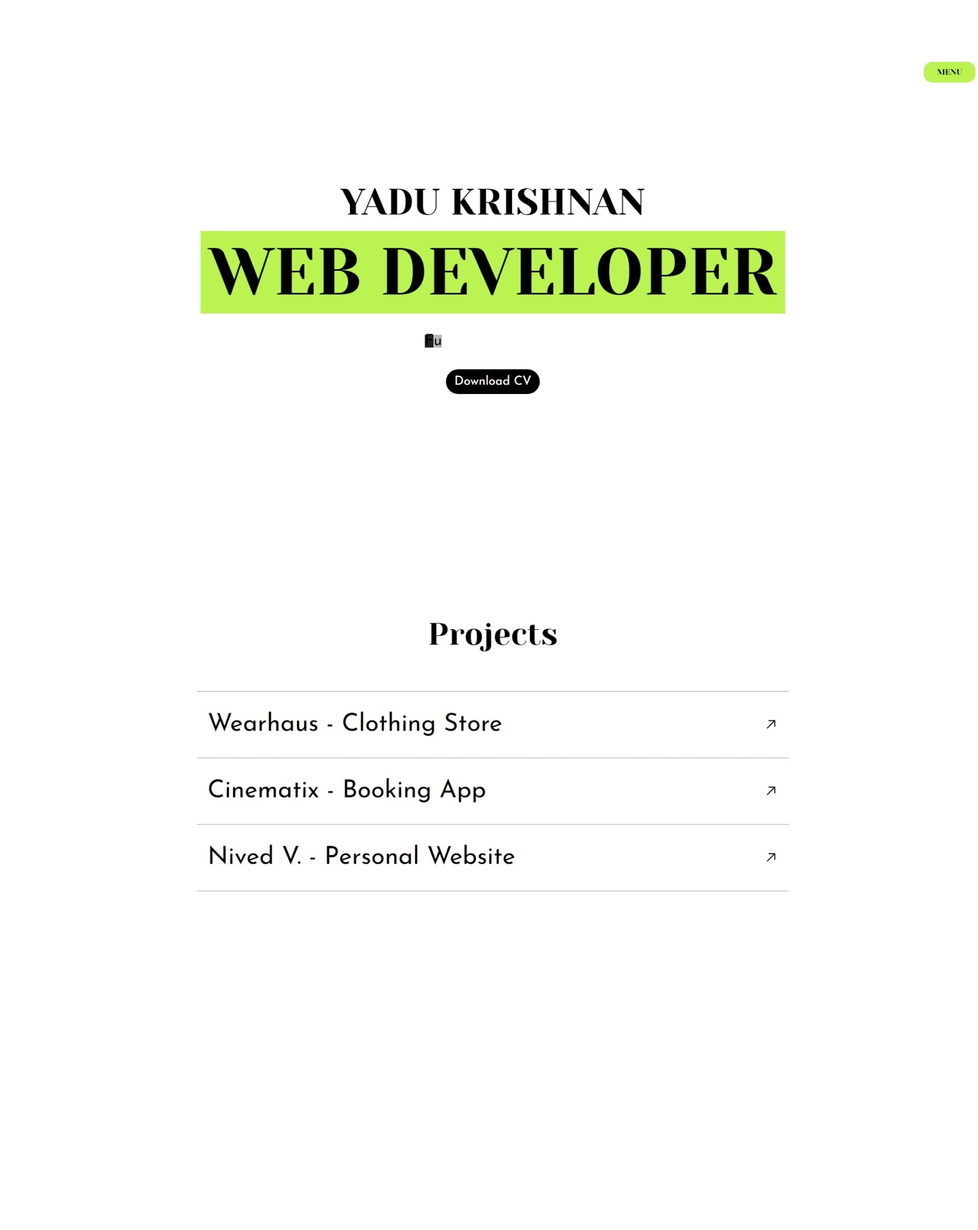
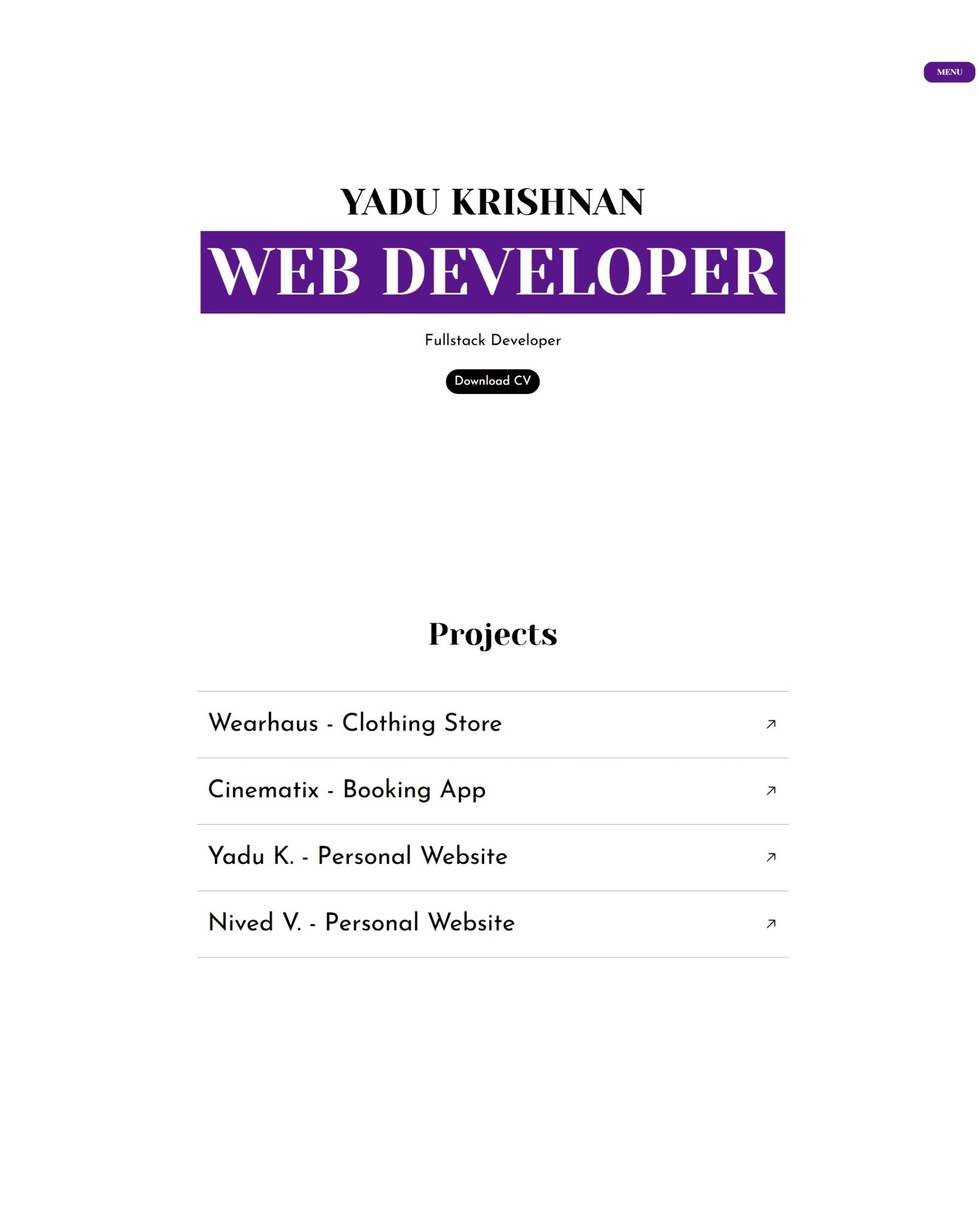
Updates

diff --git a/assets/index-BpxAs_XT.css b/assets/index-BpxAs_XT.css
@@ -1,0 +1,1 @@
+/*! tailwindcss v4.0.2 | MIT License | https://tailwindcss.com */@layer theme{:root,:host{--font-sans:ui-sans-serif,system-ui,sans-serif,"Apple Color Emoji","Segoe UI Emoji","Segoe UI Symbol","Noto Color Emoji";--font-serif:ui-serif,Georgia,Cambria,"Times New Roman",Times,serif;--font-mono:ui-monospace,SFMono-Regular,Menlo,Monaco,Consolas,"Liberation Mono","Courier New",monospace;--color-red-50:oklch(.971 .013 17.38);--color-red-100:oklch(.936 .032 17.717);--color-red-200:oklch(.885 .062 18.334);--color-red-300:oklch(.808 .114 19.571);--color-red-400:oklch(.704 .191 22.216);--color-red-500:oklch(.637 .237 25.331);--color-red-600:oklch(.577 .245 27.325);--color-red-700:oklch(.505 .213 27.518);--color-red-800:oklch(.444 .177 26.899);--color-red-900:oklch(.396 .141 25.723);--color-red-950:oklch(.258 .092 26.042);--color-orange-50:oklch(.98 .016 73.684);--color-orange-100:oklch(.954 .038 75.164);--color-orange-200:oklch(.901 .076 70.697);--color-orange-300:oklch(.837 .128 66.29);--color-orange-400:oklch(.75 .183 55.934);--color-orange-500:oklch(.705 .213 47.604);--color-orange-600:oklch(.646 .222 41.116);--color-orange-700:oklch(.553 .195 38.402);--color-orange-800:oklch(.47 .157 37.304);--color-orange-900:oklch(.408 .123 38.172);--color-orange-950:oklch(.266 .079 36.259);--color-amber-50:oklch(.987 .022 95.277);--color-amber-100:oklch(.962 .059 95.617);--color-amber-200:oklch(.924 .12 95.746);--color-amber-300:oklch(.879 .169 91.605);--color-amber-400:oklch(.828 .189 84.429);--color-amber-500:oklch(.769 .188 70.08);--color-amber-600:oklch(.666 .179 58.318);--color-amber-700:oklch(.555 .163 48.998);--color-amber-800:oklch(.473 .137 46.201);--color-amber-900:oklch(.414 .112 45.904);--color-amber-950:oklch(.279 .077 45.635);--color-yellow-50:oklch(.987 .026 102.212);--color-yellow-100:oklch(.973 .071 103.193);--color-yellow-200:oklch(.945 .129 101.54);--color-yellow-300:oklch(.905 .182 98.111);--color-yellow-400:oklch(.852 .199 91.936);--color-yellow-500:oklch(.795 .184 86.047);--color-yellow-600:oklch(.681 .162 75.834);--color-yellow-700:oklch(.554 .135 66.442);--color-yellow-800:oklch(.476 .114 61.907);--color-yellow-900:oklch(.421 .095 57.708);--color-yellow-950:oklch(.286 .066 53.813);--color-lime-50:oklch(.986 .031 120.757);--color-lime-100:oklch(.967 .067 122.328);--color-lime-200:oklch(.938 .127 124.321);--color-lime-300:oklch(.897 .196 126.665);--color-lime-400:oklch(.841 .238 128.85);--color-lime-500:oklch(.768 .233 130.85);--color-lime-600:oklch(.648 .2 131.684);--color-lime-700:oklch(.532 .157 131.589);--color-lime-800:oklch(.453 .124 130.933);--color-lime-900:oklch(.405 .101 131.063);--color-lime-950:oklch(.274 .072 132.109);--color-green-50:oklch(.982 .018 155.826);--color-green-100:oklch(.962 .044 156.743);--color-green-200:oklch(.925 .084 155.995);--color-green-300:oklch(.871 .15 154.449);--color-green-400:oklch(.792 .209 151.711);--color-green-500:oklch(.723 .219 149.579);--color-green-600:oklch(.627 .194 149.214);--color-green-700:oklch(.527 .154 150.069);--color-green-800:oklch(.448 .119 151.328);--color-green-900:oklch(.393 .095 152.535);--color-green-950:oklch(.266 .065 152.934);--color-emerald-50:oklch(.979 .021 166.113);--color-emerald-100:oklch(.95 .052 163.051);--color-emerald-200:oklch(.905 .093 164.15);--color-emerald-300:oklch(.845 .143 164.978);--color-emerald-400:oklch(.765 .177 163.223);--color-emerald-500:oklch(.696 .17 162.48);--color-emerald-600:oklch(.596 .145 163.225);--color-emerald-700:oklch(.508 .118 165.612);--color-emerald-800:oklch(.432 .095 166.913);--color-emerald-900:oklch(.378 .077 168.94);--color-emerald-950:oklch(.262 .051 172.552);--color-teal-50:oklch(.984 .014 180.72);--color-teal-100:oklch(.953 .051 180.801);--color-teal-200:oklch(.91 .096 180.426);--color-teal-300:oklch(.855 .138 181.071);--color-teal-400:oklch(.777 .152 181.912);--color-teal-500:oklch(.704 .14 182.503);--color-teal-600:oklch(.6 .118 184.704);--color-teal-700:oklch(.511 .096 186.391);--color-teal-800:oklch(.437 .078 188.216);--color-teal-900:oklch(.386 .063 188.416);--color-teal-950:oklch(.277 .046 192.524);--color-cyan-50:oklch(.984 .019 200.873);--color-cyan-100:oklch(.956 .045 203.388);--color-cyan-200:oklch(.917 .08 205.041);--color-cyan-300:oklch(.865 .127 207.078);--color-cyan-400:oklch(.789 .154 211.53);--color-cyan-500:oklch(.715 .143 215.221);--color-cyan-600:oklch(.609 .126 221.723);--color-cyan-700:oklch(.52 .105 223.128);--color-cyan-800:oklch(.45 .085 224.283);--color-cyan-900:oklch(.398 .07 227.392);--color-cyan-950:oklch(.302 .056 229.695);--color-sky-50:oklch(.977 .013 236.62);--color-sky-100:oklch(.951 .026 236.824);--color-sky-200:oklch(.901 .058 230.902);--color-sky-300:oklch(.828 .111 230.318);--color-sky-400:oklch(.746 .16 232.661);--color-sky-500:oklch(.685 .169 237.323);--color-sky-600:oklch(.588 .158 241.966);--color-sky-700:oklch(.5 .134 242.749);--color-sky-800:oklch(.443 .11 240.79);--color-sky-900:oklch(.391 .09 240.876);--color-sky-950:oklch(.293 .066 243.157);--color-blue-50:oklch(.97 .014 254.604);--color-blue-100:oklch(.932 .032 255.585);--color-blue-200:oklch(.882 .059 254.128);--color-blue-300:oklch(.809 .105 251.813);--color-blue-400:oklch(.707 .165 254.624);--color-blue-500:oklch(.623 .214 259.815);--color-blue-600:oklch(.546 .245 262.881);--color-blue-700:oklch(.488 .243 264.376);--color-blue-800:oklch(.424 .199 265.638);--color-blue-900:oklch(.379 .146 265.522);--color-blue-950:oklch(.282 .091 267.935);--color-indigo-50:oklch(.962 .018 272.314);--color-indigo-100:oklch(.93 .034 272.788);--color-indigo-200:oklch(.87 .065 274.039);--color-indigo-300:oklch(.785 .115 274.713);--color-indigo-400:oklch(.673 .182 276.935);--color-indigo-500:oklch(.585 .233 277.117);--color-indigo-600:oklch(.511 .262 276.966);--color-indigo-700:oklch(.457 .24 277.023);--color-indigo-800:oklch(.398 .195 277.366);--color-indigo-900:oklch(.359 .144 278.697);--color-indigo-950:oklch(.257 .09 281.288);--color-violet-50:oklch(.969 .016 293.756);--color-violet-100:oklch(.943 .029 294.588);--color-violet-200:oklch(.894 .057 293.283);--color-violet-300:oklch(.811 .111 293.571);--color-violet-400:oklch(.702 .183 293.541);--color-violet-500:oklch(.606 .25 292.717);--color-violet-600:oklch(.541 .281 293.009);--color-violet-700:oklch(.491 .27 292.581);--color-violet-800:oklch(.432 .232 292.759);--color-violet-900:oklch(.38 .189 293.745);--color-violet-950:oklch(.283 .141 291.089);--color-purple-50:oklch(.977 .014 308.299);--color-purple-100:oklch(.946 .033 307.174);--color-purple-200:oklch(.902 .063 306.703);--color-purple-300:oklch(.827 .119 306.383);--color-purple-400:oklch(.714 .203 305.504);--color-purple-500:oklch(.627 .265 303.9);--color-purple-600:oklch(.558 .288 302.321);--color-purple-700:oklch(.496 .265 301.924);--color-purple-800:oklch(.438 .218 303.724);--color-purple-900:oklch(.381 .176 304.987);--color-purple-950:oklch(.291 .149 302.717);--color-fuchsia-50:oklch(.977 .017 320.058);--color-fuchsia-100:oklch(.952 .037 318.852);--color-fuchsia-200:oklch(.903 .076 319.62);--color-fuchsia-300:oklch(.833 .145 321.434);--color-fuchsia-400:oklch(.74 .238 322.16);--color-fuchsia-500:oklch(.667 .295 322.15);--color-fuchsia-600:oklch(.591 .293 322.896);--color-fuchsia-700:oklch(.518 .253 323.949);--color-fuchsia-800:oklch(.452 .211 324.591);--color-fuchsia-900:oklch(.401 .17 325.612);--color-fuchsia-950:oklch(.293 .136 325.661);--color-pink-50:oklch(.971 .014 343.198);--color-pink-100:oklch(.948 .028 342.258);--color-pink-200:oklch(.899 .061 343.231);--color-pink-300:oklch(.823 .12 346.018);--color-pink-400:oklch(.718 .202 349.761);--color-pink-500:oklch(.656 .241 354.308);--color-pink-600:oklch(.592 .249 .584);--color-pink-700:oklch(.525 .223 3.958);--color-pink-800:oklch(.459 .187 3.815);--color-pink-900:oklch(.408 .153 2.432);--color-pink-950:oklch(.284 .109 3.907);--color-rose-50:oklch(.969 .015 12.422);--color-rose-100:oklch(.941 .03 12.58);--color-rose-200:oklch(.892 .058 10.001);--color-rose-300:oklch(.81 .117 11.638);--color-rose-400:oklch(.712 .194 13.428);--color-rose-500:oklch(.645 .246 16.439);--color-rose-600:oklch(.586 .253 17.585);--color-rose-700:oklch(.514 .222 16.935);--color-rose-800:oklch(.455 .188 13.697);--color-rose-900:oklch(.41 .159 10.272);--color-rose-950:oklch(.271 .105 12.094);--color-slate-50:oklch(.984 .003 247.858);--color-slate-100:oklch(.968 .007 247.896);--color-slate-200:oklch(.929 .013 255.508);--color-slate-300:oklch(.869 .022 252.894);--color-slate-400:oklch(.704 .04 256.788);--color-slate-500:oklch(.554 .046 257.417);--color-slate-600:oklch(.446 .043 257.281);--color-slate-700:oklch(.372 .044 257.287);--color-slate-800:oklch(.279 .041 260.031);--color-slate-900:oklch(.208 .042 265.755);--color-slate-950:oklch(.129 .042 264.695);--color-gray-50:oklch(.985 .002 247.839);--color-gray-100:oklch(.967 .003 264.542);--color-gray-200:oklch(.928 .006 264.531);--color-gray-300:oklch(.872 .01 258.338);--color-gray-400:oklch(.707 .022 261.325);--color-gray-500:oklch(.551 .027 264.364);--color-gray-600:oklch(.446 .03 256.802);--color-gray-700:oklch(.373 .034 259.733);--color-gray-800:oklch(.278 .033 256.848);--color-gray-900:oklch(.21 .034 264.665);--color-gray-950:oklch(.13 .028 261.692);--color-zinc-50:oklch(.985 0 0);--color-zinc-100:oklch(.967 .001 286.375);--color-zinc-200:oklch(.92 .004 286.32);--color-zinc-300:oklch(.871 .006 286.286);--color-zinc-400:oklch(.705 .015 286.067);--color-zinc-500:oklch(.552 .016 285.938);--color-zinc-600:oklch(.442 .017 285.786);--color-zinc-700:oklch(.37 .013 285.805);--color-zinc-800:oklch(.274 .006 286.033);--color-zinc-900:oklch(.21 .006 285.885);--color-zinc-950:oklch(.141 .005 285.823);--color-neutral-50:oklch(.985 0 0);--color-neutral-100:oklch(.97 0 0);--color-neutral-200:oklch(.922 0 0);--color-neutral-300:oklch(.87 0 0);--color-neutral-400:oklch(.708 0 0);--color-neutral-500:oklch(.556 0 0);--color-neutral-600:oklch(.439 0 0);--color-neutral-700:oklch(.371 0 0);--color-neutral-800:oklch(.269 0 0);--color-neutral-900:oklch(.205 0 0);--color-neutral-950:oklch(.145 0 0);--color-stone-50:oklch(.985 .001 106.423);--color-stone-100:oklch(.97 .001 106.424);--color-stone-200:oklch(.923 .003 48.717);--color-stone-300:oklch(.869 .005 56.366);--color-stone-400:oklch(.709 .01 56.259);--color-stone-500:oklch(.553 .013 58.071);--color-stone-600:oklch(.444 .011 73.639);--color-stone-700:oklch(.374 .01 67.558);--color-stone-800:oklch(.268 .007 34.298);--color-stone-900:oklch(.216 .006 56.043);--color-stone-950:oklch(.147 .004 49.25);--color-black:#000;--color-white:#fff;--spacing:.25rem;--breakpoint-sm:40rem;--breakpoint-md:48rem;--breakpoint-lg:64rem;--breakpoint-xl:80rem;--breakpoint-2xl:96rem;--container-3xs:16rem;--container-2xs:18rem;--container-xs:20rem;--container-sm:24rem;--container-md:28rem;--container-lg:32rem;--container-xl:36rem;--container-2xl:42rem;--container-3xl:48rem;--container-4xl:56rem;--container-5xl:64rem;--container-6xl:72rem;--container-7xl:80rem;--text-xs:.75rem;--text-xs--line-height:calc(1/.75);--text-sm:.875rem;--text-sm--line-height:calc(1.25/.875);--text-base:1rem;--text-base--line-height: 1.5 ;--text-lg:1.125rem;--text-lg--line-height:calc(1.75/1.125);--text-xl:1.25rem;--text-xl--line-height:calc(1.75/1.25);--text-2xl:1.5rem;--text-2xl--line-height:calc(2/1.5);--text-3xl:1.875rem;--text-3xl--line-height: 1.2 ;--text-4xl:2.25rem;--text-4xl--line-height:calc(2.5/2.25);--text-5xl:3rem;--text-5xl--line-height:1;--text-6xl:3.75rem;--text-6xl--line-height:1;--text-7xl:4.5rem;--text-7xl--line-height:1;--text-8xl:6rem;--text-8xl--line-height:1;--text-9xl:8rem;--text-9xl--line-height:1;--font-weight-thin:100;--font-weight-extralight:200;--font-weight-light:300;--font-weight-normal:400;--font-weight-medium:500;--font-weight-semibold:600;--font-weight-bold:700;--font-weight-extrabold:800;--font-weight-black:900;--tracking-tighter:-.05em;--tracking-tight:-.025em;--tracking-normal:0em;--tracking-wide:.025em;--tracking-wider:.05em;--tracking-widest:.1em;--leading-tight:1.25;--leading-snug:1.375;--leading-normal:1.5;--leading-relaxed:1.625;--leading-loose:2;--radius-xs:.125rem;--radius-sm:.25rem;--radius-md:.375rem;--radius-lg:.5rem;--radius-xl:.75rem;--radius-2xl:1rem;--radius-3xl:1.5rem;--radius-4xl:2rem;--shadow-2xs:0 1px #0000000d;--shadow-xs:0 1px 2px 0 #0000000d;--shadow-sm:0 1px 3px 0 #0000001a,0 1px 2px -1px #0000001a;--shadow-md:0 4px 6px -1px #0000001a,0 2px 4px -2px #0000001a;--shadow-lg:0 10px 15px -3px #0000001a,0 4px 6px -4px #0000001a;--shadow-xl:0 20px 25px -5px #0000001a,0 8px 10px -6px #0000001a;--shadow-2xl:0 25px 50px -12px #00000040;--inset-shadow-2xs:inset 0 1px #0000000d;--inset-shadow-xs:inset 0 1px 1px #0000000d;--inset-shadow-sm:inset 0 2px 4px #0000000d;--drop-shadow-xs:0 1px 1px #0000000d;--drop-shadow-sm:0 1px 2px #00000026;--drop-shadow-md:0 3px 3px #0000001f;--drop-shadow-lg:0 4px 4px #00000026;--drop-shadow-xl:0 9px 7px #0000001a;--drop-shadow-2xl:0 25px 25px #00000026;--ease-in:cubic-bezier(.4,0,1,1);--ease-out:cubic-bezier(0,0,.2,1);--ease-in-out:cubic-bezier(.4,0,.2,1);--animate-spin:spin 1s linear infinite;--animate-ping:ping 1s cubic-bezier(0,0,.2,1)infinite;--animate-pulse:pulse 2s cubic-bezier(.4,0,.6,1)infinite;--animate-bounce:bounce 1s infinite;--blur-xs:4px;--blur-sm:8px;--blur-md:12px;--blur-lg:16px;--blur-xl:24px;--blur-2xl:40px;--blur-3xl:64px;--perspective-dramatic:100px;--perspective-near:300px;--perspective-normal:500px;--perspective-midrange:800px;--perspective-distant:1200px;--aspect-video:16/9;--default-transition-duration:.15s;--default-transition-timing-function:cubic-bezier(.4,0,.2,1);--default-font-family:var(--font-sans);--default-font-feature-settings:var(--font-sans--font-feature-settings);--default-font-variation-settings:var(--font-sans--font-variation-settings);--default-mono-font-family:var(--font-mono);--default-mono-font-feature-settings:var(--font-mono--font-feature-settings);--default-mono-font-variation-settings:var(--font-mono--font-variation-settings)}}@layer base{*,:after,:before,::backdrop{box-sizing:border-box;border:0 solid;margin:0;padding:0}::file-selector-button{box-sizing:border-box;border:0 solid;margin:0;padding:0}html,:host{-webkit-text-size-adjust:100%;-moz-tab-size:4;tab-size:4;line-height:1.5;font-family:var(--default-font-family,ui-sans-serif,system-ui,sans-serif,"Apple Color Emoji","Segoe UI Emoji","Segoe UI Symbol","Noto Color Emoji");font-feature-settings:var(--default-font-feature-settings,normal);font-variation-settings:var(--default-font-variation-settings,normal);-webkit-tap-highlight-color:transparent}body{line-height:inherit}hr{height:0;color:inherit;border-top-width:1px}abbr:where([title]){-webkit-text-decoration:underline dotted;text-decoration:underline dotted}h1,h2,h3,h4,h5,h6{font-size:inherit;font-weight:inherit}a{color:inherit;-webkit-text-decoration:inherit;text-decoration:inherit}b,strong{font-weight:bolder}code,kbd,samp,pre{font-family:var(--default-mono-font-family,ui-monospace,SFMono-Regular,Menlo,Monaco,Consolas,"Liberation Mono","Courier New",monospace);font-feature-settings:var(--default-mono-font-feature-settings,normal);font-variation-settings:var(--default-mono-font-variation-settings,normal);font-size:1em}small{font-size:80%}sub,sup{vertical-align:baseline;font-size:75%;line-height:0;position:relative}sub{bottom:-.25em}sup{top:-.5em}table{text-indent:0;border-color:inherit;border-collapse:collapse}:-moz-focusring{outline:auto}progress{vertical-align:baseline}summary{display:list-item}ol,ul,menu{list-style:none}img,svg,video,canvas,audio,iframe,embed,object{vertical-align:middle;display:block}img,video{max-width:100%;height:auto}button,input,select,optgroup,textarea{font:inherit;font-feature-settings:inherit;font-variation-settings:inherit;letter-spacing:inherit;color:inherit;opacity:1;background-color:#0000;border-radius:0}::file-selector-button{font:inherit;font-feature-settings:inherit;font-variation-settings:inherit;letter-spacing:inherit;color:inherit;opacity:1;background-color:#0000;border-radius:0}:where(select:is([multiple],[size])) optgroup{font-weight:bolder}:where(select:is([multiple],[size])) optgroup option{padding-inline-start:20px}::file-selector-button{margin-inline-end:4px}::placeholder{opacity:1;color:color-mix(in oklab,currentColor 50%,transparent)}textarea{resize:vertical}::-webkit-search-decoration{-webkit-appearance:none}::-webkit-date-and-time-value{min-height:1lh;text-align:inherit}::-webkit-datetime-edit{display:inline-flex}::-webkit-datetime-edit-fields-wrapper{padding:0}::-webkit-datetime-edit{padding-block:0}::-webkit-datetime-edit-year-field{padding-block:0}::-webkit-datetime-edit-month-field{padding-block:0}::-webkit-datetime-edit-day-field{padding-block:0}::-webkit-datetime-edit-hour-field{padding-block:0}::-webkit-datetime-edit-minute-field{padding-block:0}::-webkit-datetime-edit-second-field{padding-block:0}::-webkit-datetime-edit-millisecond-field{padding-block:0}::-webkit-datetime-edit-meridiem-field{padding-block:0}:-moz-ui-invalid{box-shadow:none}button,input:where([type=button],[type=reset],[type=submit]){-webkit-appearance:button;-moz-appearance:button;appearance:button}::file-selector-button{-webkit-appearance:button;-moz-appearance:button;appearance:button}::-webkit-inner-spin-button{height:auto}::-webkit-outer-spin-button{height:auto}[hidden]:where(:not([hidden=until-found])){display:none!important}}@layer components;@layer utilities{.pointer-events-none{pointer-events:none}.invisible{visibility:hidden}.visible{visibility:visible}.absolute{position:absolute}.fixed{position:fixed}.relative{position:relative}.static{position:static}.top-0{top:calc(var(--spacing)*0)}.top-2{top:calc(var(--spacing)*2)}.top-\[3px\]{top:3px}.top-full{top:100%}.right-0{right:calc(var(--spacing)*0)}.right-7{right:calc(var(--spacing)*7)}.bottom-0{bottom:calc(var(--spacing)*0)}.bottom-\[3px\]{bottom:3px}.left-0{left:calc(var(--spacing)*0)}.left-\[1px\]{left:1px}.-z-10{z-index:-10}.z-30{z-index:30}.z-40{z-index:40}.z-50{z-index:50}.container{width:100%}@media (width>=40rem){.container{max-width:40rem}}@media (width>=48rem){.container{max-width:48rem}}@media (width>=64rem){.container{max-width:64rem}}@media (width>=80rem){.container{max-width:80rem}}@media (width>=96rem){.container{max-width:96rem}}.m-auto{margin:auto}.mx-auto{margin-inline:auto}.my-10{margin-block:calc(var(--spacing)*10)}.my-20{margin-block:calc(var(--spacing)*20)}.mt-4{margin-top:calc(var(--spacing)*4)}.mt-20{margin-top:calc(var(--spacing)*20)}.mt-32{margin-top:calc(var(--spacing)*32)}.mb-4{margin-bottom:calc(var(--spacing)*4)}.mb-6{margin-bottom:calc(var(--spacing)*6)}.mb-10{margin-bottom:calc(var(--spacing)*10)}.mb-12{margin-bottom:calc(var(--spacing)*12)}.mb-20{margin-bottom:calc(var(--spacing)*20)}.box-border{box-sizing:border-box}.block{display:block}.contents{display:contents}.flex{display:flex}.grid{display:grid}.hidden{display:none}.inline{display:inline}.table{display:table}.h-10{height:calc(var(--spacing)*10)}.h-16{height:calc(var(--spacing)*16)}.h-\[50vh\]{height:50vh}.h-\[100vh\]{height:100vh}.h-\[350px\]{height:350px}.h-\[500px\]{height:500px}.h-auto{height:auto}.h-full{height:100%}.w-10{width:calc(var(--spacing)*10)}.w-28{width:calc(var(--spacing)*28)}.w-\[40\%\]{width:40%}.w-\[80\%\]{width:80%}.w-\[90\%\]{width:90%}.w-\[100px\]{width:100px}.w-\[300px\]{width:300px}.w-\[350px\]{width:350px}.w-\[400px\]{width:400px}.w-full{width:100%}.flex-shrink-0{flex-shrink:0}.\!transform{transform:var(--tw-rotate-x)var(--tw-rotate-y)var(--tw-rotate-z)var(--tw-skew-x)var(--tw-skew-y)!important}.transform{transform:var(--tw-rotate-x)var(--tw-rotate-y)var(--tw-rotate-z)var(--tw-skew-x)var(--tw-skew-y)}.cursor-pointer{cursor:pointer}.resize{resize:both}.flex-col{flex-direction:column}.flex-col-reverse{flex-direction:column-reverse}.flex-wrap{flex-wrap:wrap}.place-items-center{place-items:center}.items-center{align-items:center}.items-start{align-items:flex-start}.justify-between{justify-content:space-between}.justify-center{justify-content:center}.justify-end{justify-content:flex-end}.gap-1{gap:calc(var(--spacing)*1)}.gap-2{gap:calc(var(--spacing)*2)}.gap-3{gap:calc(var(--spacing)*3)}.gap-4{gap:calc(var(--spacing)*4)}.gap-5{gap:calc(var(--spacing)*5)}.gap-6{gap:calc(var(--spacing)*6)}.gap-10{gap:calc(var(--spacing)*10)}.gap-12{gap:calc(var(--spacing)*12)}.gap-28{gap:calc(var(--spacing)*28)}:where(.space-y-5>:not(:last-child)){--tw-space-y-reverse:0;margin-block-start:calc(calc(var(--spacing)*5)*var(--tw-space-y-reverse));margin-block-end:calc(calc(var(--spacing)*5)*calc(1 - var(--tw-space-y-reverse)))}:where(.space-y-7>:not(:last-child)){--tw-space-y-reverse:0;margin-block-start:calc(calc(var(--spacing)*7)*var(--tw-space-y-reverse));margin-block-end:calc(calc(var(--spacing)*7)*calc(1 - var(--tw-space-y-reverse)))}:where(.space-y-10>:not(:last-child)){--tw-space-y-reverse:0;margin-block-start:calc(calc(var(--spacing)*10)*var(--tw-space-y-reverse));margin-block-end:calc(calc(var(--spacing)*10)*calc(1 - var(--tw-space-y-reverse)))}.overflow-hidden{overflow:hidden}.overflow-y-scroll{overflow-y:scroll}.rounded{border-radius:.25rem}.rounded-2xl{border-radius:var(--radius-2xl)}.rounded-full{border-radius:3.40282e38px}.rounded-md{border-radius:var(--radius-md)}.rounded-xl{border-radius:var(--radius-xl)}.border{border-style:var(--tw-border-style);border-width:1px}.border-t{border-top-style:var(--tw-border-style);border-top-width:1px}.border-b{border-bottom-style:var(--tw-border-style);border-bottom-width:1px}.border-none{--tw-border-style:none;border-style:none}.border-black{border-color:var(--color-black)}.border-gray-400{border-color:var(--color-gray-400)}.bg-black{background-color:var(--color-black)}.bg-purple-900{background-color:var(--color-purple-900)}.bg-transparent{background-color:#0000}.bg-white{background-color:var(--color-white)}.object-top{object-position:top}.p-2{padding:calc(var(--spacing)*2)}.p-4{padding:calc(var(--spacing)*4)}.p-5{padding:calc(var(--spacing)*5)}.p-10{padding:calc(var(--spacing)*10)}.px-4{padding-inline:calc(var(--spacing)*4)}.px-5{padding-inline:calc(var(--spacing)*5)}.px-10{padding-inline:calc(var(--spacing)*10)}.px-\[40px\]{padding-inline:40px}.py-2{padding-block:calc(var(--spacing)*2)}.py-5{padding-block:calc(var(--spacing)*5)}.py-10{padding-block:calc(var(--spacing)*10)}.pt-20{padding-top:calc(var(--spacing)*20)}.pt-\[100px\]{padding-top:100px}.pr-20{padding-right:calc(var(--spacing)*20)}.pb-10{padding-bottom:calc(var(--spacing)*10)}.pb-\[50px\]{padding-bottom:50px}.pl-4{padding-left:calc(var(--spacing)*4)}.text-center{text-align:center}.text-2xl{font-size:var(--text-2xl);line-height:var(--tw-leading,var(--text-2xl--line-height))}.text-3xl{font-size:var(--text-3xl);line-height:var(--tw-leading,var(--text-3xl--line-height))}.text-4xl{font-size:var(--text-4xl);line-height:var(--tw-leading,var(--text-4xl--line-height))}.text-5xl{font-size:var(--text-5xl);line-height:var(--tw-leading,var(--text-5xl--line-height))}.text-lg{font-size:var(--text-lg);line-height:var(--tw-leading,var(--text-lg--line-height))}.text-sm{font-size:var(--text-sm);line-height:var(--tw-leading,var(--text-sm--line-height))}.text-xl{font-size:var(--text-xl);line-height:var(--tw-leading,var(--text-xl--line-height))}.font-bold{--tw-font-weight:var(--font-weight-bold);font-weight:var(--font-weight-bold)}.font-extrabold{--tw-font-weight:var(--font-weight-extrabold);font-weight:var(--font-weight-extrabold)}.font-medium{--tw-font-weight:var(--font-weight-medium);font-weight:var(--font-weight-medium)}.font-semibold{--tw-font-weight:var(--font-weight-semibold);font-weight:var(--font-weight-semibold)}.tracking-tight{--tw-tracking:var(--tracking-tight);letter-spacing:var(--tracking-tight)}.text-black{color:var(--color-black)}.text-white{color:var(--color-white)}.lowercase{text-transform:lowercase}.shadow{--tw-shadow:0 1px 3px 0 var(--tw-shadow-color,#0000001a),0 1px 2px -1px var(--tw-shadow-color,#0000001a);box-shadow:var(--tw-inset-shadow),var(--tw-inset-ring-shadow),var(--tw-ring-offset-shadow),var(--tw-ring-shadow),var(--tw-shadow)}.shadow-xl{--tw-shadow:0 20px 25px -5px var(--tw-shadow-color,#0000001a),0 8px 10px -6px var(--tw-shadow-color,#0000001a);box-shadow:var(--tw-inset-shadow),var(--tw-inset-ring-shadow),var(--tw-ring-offset-shadow),var(--tw-ring-shadow),var(--tw-shadow)}.shadow-gray-500{--tw-shadow-color:var(--color-gray-500)}.outline{outline-style:var(--tw-outline-style);outline-width:1px}.blur{--tw-blur:blur(8px);filter:var(--tw-blur,)var(--tw-brightness,)var(--tw-contrast,)var(--tw-grayscale,)var(--tw-hue-rotate,)var(--tw-invert,)var(--tw-saturate,)var(--tw-sepia,)var(--tw-drop-shadow,)}.drop-shadow{--tw-drop-shadow:drop-shadow(0 1px 2px #0000001a)drop-shadow(0 1px 1px #0000000f);filter:var(--tw-blur,)var(--tw-brightness,)var(--tw-contrast,)var(--tw-grayscale,)var(--tw-hue-rotate,)var(--tw-invert,)var(--tw-saturate,)var(--tw-sepia,)var(--tw-drop-shadow,)}.invert{--tw-invert:invert(100%);filter:var(--tw-blur,)var(--tw-brightness,)var(--tw-contrast,)var(--tw-grayscale,)var(--tw-hue-rotate,)var(--tw-invert,)var(--tw-saturate,)var(--tw-sepia,)var(--tw-drop-shadow,)}.filter{filter:var(--tw-blur,)var(--tw-brightness,)var(--tw-contrast,)var(--tw-grayscale,)var(--tw-hue-rotate,)var(--tw-invert,)var(--tw-saturate,)var(--tw-sepia,)var(--tw-drop-shadow,)}.transition{transition-property:color,background-color,border-color,outline-color,text-decoration-color,fill,stroke,--tw-gradient-from,--tw-gradient-via,--tw-gradient-to,opacity,box-shadow,transform,translate,scale,rotate,filter,-webkit-backdrop-filter,backdrop-filter;transition-timing-function:var(--tw-ease,var(--default-transition-timing-function));transition-duration:var(--tw-duration,var(--default-transition-duration))}.transition-\[top\]{transition-property:top;transition-timing-function:var(--tw-ease,var(--default-transition-timing-function));transition-duration:var(--tw-duration,var(--default-transition-duration))}.transition-all{transition-property:all;transition-timing-function:var(--tw-ease,var(--default-transition-timing-function));transition-duration:var(--tw-duration,var(--default-transition-duration))}.duration-200{--tw-duration:.2s;transition-duration:.2s}.duration-400{--tw-duration:.4s;transition-duration:.4s}.duration-500{--tw-duration:.5s;transition-duration:.5s}.ease-in{--tw-ease:var(--ease-in);transition-timing-function:var(--ease-in)}.ease-in-out{--tw-ease:var(--ease-in-out);transition-timing-function:var(--ease-in-out)}.ease-linear{--tw-ease:linear;transition-timing-function:linear}.ease-out{--tw-ease:var(--ease-out);transition-timing-function:var(--ease-out)}.perspective-\[120px\]{perspective:120px}@media (hover:hover){.group-hover\:-translate-x-2\.5:is(:where(.group):hover *){--tw-translate-x:calc(var(--spacing)*-2.5);translate:var(--tw-translate-x)var(--tw-translate-y)}.group-hover\:translate-x-2\.5:is(:where(.group):hover *){--tw-translate-x:calc(var(--spacing)*2.5);translate:var(--tw-translate-x)var(--tw-translate-y)}.hover\:bg-black:hover{background-color:var(--color-black)}.hover\:bg-purple-900:hover{background-color:var(--color-purple-900)}.hover\:text-lime-300:hover{color:var(--color-lime-300)}.hover\:text-white:hover{color:var(--color-white)}.hover\:opacity-40:hover{opacity:.4}}@media (width>=40rem){.sm\:w-full{width:100%}.sm\:flex-row{flex-direction:row}}@media (width>=48rem){.md\:flex{display:flex}.md\:text-2xl{font-size:var(--text-2xl);line-height:var(--tw-leading,var(--text-2xl--line-height))}.md\:text-9xl{font-size:var(--text-9xl);line-height:var(--tw-leading,var(--text-9xl--line-height))}.md\:text-xl{font-size:var(--text-xl);line-height:var(--tw-leading,var(--text-xl--line-height))}}@media (width>=64rem){.lg\:mb-0{margin-bottom:calc(var(--spacing)*0)}.lg\:ml-4{margin-left:calc(var(--spacing)*4)}.lg\:flex{display:flex}.lg\:hidden{display:none}.lg\:h-24{height:calc(var(--spacing)*24)}.lg\:h-\[70vh\]{height:70vh}.lg\:w-\[40\%\]{width:40%}.lg\:w-\[60\%\]{width:60%}.lg\:w-auto{width:auto}.lg\:flex-row{flex-direction:row}.lg\:flex-nowrap{flex-wrap:nowrap}.lg\:items-center{align-items:center}.lg\:items-start{align-items:flex-start}.lg\:justify-baseline{justify-content:baseline}.lg\:justify-between{justify-content:space-between}.lg\:gap-4{gap:calc(var(--spacing)*4)}.lg\:gap-6{gap:calc(var(--spacing)*6)}.lg\:gap-10{gap:calc(var(--spacing)*10)}.lg\:gap-20{gap:calc(var(--spacing)*20)}:where(.lg\:space-y-24>:not(:last-child)){--tw-space-y-reverse:0;margin-block-start:calc(calc(var(--spacing)*24)*var(--tw-space-y-reverse));margin-block-end:calc(calc(var(--spacing)*24)*calc(1 - var(--tw-space-y-reverse)))}:where(.lg\:space-y-32>:not(:last-child)){--tw-space-y-reverse:0;margin-block-start:calc(calc(var(--spacing)*32)*var(--tw-space-y-reverse));margin-block-end:calc(calc(var(--spacing)*32)*calc(1 - var(--tw-space-y-reverse)))}.lg\:px-20{padding-inline:calc(var(--spacing)*20)}.lg\:px-40{padding-inline:calc(var(--spacing)*40)}.lg\:text-2xl{font-size:var(--text-2xl);line-height:var(--tw-leading,var(--text-2xl--line-height))}.lg\:text-3xl{font-size:var(--text-3xl);line-height:var(--tw-leading,var(--text-3xl--line-height))}.lg\:text-4xl{font-size:var(--text-4xl);line-height:var(--tw-leading,var(--text-4xl--line-height))}.lg\:text-5xl{font-size:var(--text-5xl);line-height:var(--tw-leading,var(--text-5xl--line-height))}.lg\:text-6xl{font-size:var(--text-6xl);line-height:var(--tw-leading,var(--text-6xl--line-height))}.lg\:text-7xl{font-size:var(--text-7xl);line-height:var(--tw-leading,var(--text-7xl--line-height))}.lg\:text-9xl{font-size:var(--text-9xl);line-height:var(--tw-leading,var(--text-9xl--line-height))}.lg\:text-lg{font-size:var(--text-lg);line-height:var(--tw-leading,var(--text-lg--line-height))}.lg\:text-xl{font-size:var(--text-xl);line-height:var(--tw-leading,var(--text-xl--line-height))}}@media (prefers-color-scheme:dark){.dark\:border-white{border-color:var(--color-white)}.dark\:bg-black{background-color:var(--color-black)}.dark\:bg-white{background-color:var(--color-white)}.dark\:bg-yellow-300{background-color:var(--color-yellow-300)}.dark\:text-black{color:var(--color-black)}.dark\:text-white{color:var(--color-white)}@media (hover:hover){.dark\:hover\:bg-white:hover{background-color:var(--color-white)}.dark\:hover\:bg-yellow-300:hover{background-color:var(--color-yellow-300)}.dark\:hover\:text-black:hover{color:var(--color-black)}.dark\:hover\:text-yellow-300:hover{color:var(--color-yellow-300)}}}}.primary-rubik{font-family:Yeseva One,serif;font-style:normal;font-weight:400}.secondary-rubik{font-optical-sizing:auto;font-family:Josefin Sans,serif;font-style:normal}body{color:#000;background-color:#fff}@media (prefers-color-scheme:dark){body{color:#fff;background-color:#000}}html{scroll-snap-type:y mandatory;scroll-behavior:smooth}section{scroll-snap-align:center;height:100vh;margin:100px 0}@keyframes spin{to{transform:rotate(360deg)}}@keyframes ping{75%,to{opacity:0;transform:scale(2)}}@keyframes pulse{50%{opacity:.5}}@keyframes bounce{0%,to{animation-timing-function:cubic-bezier(.8,0,1,1);transform:translateY(-25%)}50%{animation-timing-function:cubic-bezier(0,0,.2,1);transform:none}}@property --tw-rotate-x{syntax:"*";inherits:false;initial-value:rotateX(0)}@property --tw-rotate-y{syntax:"*";inherits:false;initial-value:rotateY(0)}@property --tw-rotate-z{syntax:"*";inherits:false;initial-value:rotateZ(0)}@property --tw-skew-x{syntax:"*";inherits:false;initial-value:skewX(0)}@property --tw-skew-y{syntax:"*";inherits:false;initial-value:skewY(0)}@property --tw-space-y-reverse{syntax:"*";inherits:false;initial-value:0}@property --tw-border-style{syntax:"*";inherits:false;initial-value:solid}@property --tw-font-weight{syntax:"*";inherits:false}@property --tw-tracking{syntax:"*";inherits:false}@property --tw-shadow{syntax:"*";inherits:false;initial-value:0 0 #0000}@property --tw-shadow-color{syntax:"*";inherits:false}@property --tw-inset-shadow{syntax:"*";inherits:false;initial-value:0 0 #0000}@property --tw-inset-shadow-color{syntax:"*";inherits:false}@property --tw-ring-color{syntax:"*";inherits:false}@property --tw-ring-shadow{syntax:"*";inherits:false;initial-value:0 0 #0000}@property --tw-inset-ring-color{syntax:"*";inherits:false}@property --tw-inset-ring-shadow{syntax:"*";inherits:false;initial-value:0 0 #0000}@property --tw-ring-inset{syntax:"*";inherits:false}@property --tw-ring-offset-width{syntax:"<length>";inherits:false;initial-value:0}@property --tw-ring-offset-color{syntax:"*";inherits:false;initial-value:#fff}@property --tw-ring-offset-shadow{syntax:"*";inherits:false;initial-value:0 0 #0000}@property --tw-outline-style{syntax:"*";inherits:false;initial-value:solid}@property --tw-blur{syntax:"*";inherits:false}@property --tw-brightness{syntax:"*";inherits:false}@property --tw-contrast{syntax:"*";inherits:false}@property --tw-grayscale{syntax:"*";inherits:false}@property --tw-hue-rotate{syntax:"*";inherits:false}@property --tw-invert{syntax:"*";inherits:false}@property --tw-opacity{syntax:"*";inherits:false}@property --tw-saturate{syntax:"*";inherits:false}@property --tw-sepia{syntax:"*";inherits:false}@property --tw-duration{syntax:"*";inherits:false}@property --tw-ease{syntax:"*";inherits:false}@property --tw-translate-x{syntax:"*";inherits:false;initial-value:0}@property --tw-translate-y{syntax:"*";inherits:false;initial-value:0}@property --tw-translate-z{syntax:"*";inherits:false;initial-value:0}

diff --git a/index.html b/index.html
@@ -37,8 +37,8 @@
     <!-- GOOGLE FONTS -->
 
     <title>Yadu Krishnan - Web Developer</title>
-    <script type="module" crossorigin src="/yaduk-website/assets/index-2UBm2h6u.js"></script>
-    <link rel="stylesheet" crossorigin href="/yaduk-website/assets/index-CV0Z3Pax.css">
+    <script type="module" crossorigin src="/yaduk-website/assets/index-Dc9-UAFc.js"></script>
+    <link rel="stylesheet" crossorigin href="/yaduk-website/assets/index-BpxAs_XT.css">
   </head>
   <body>
     <div id="root"></div>
